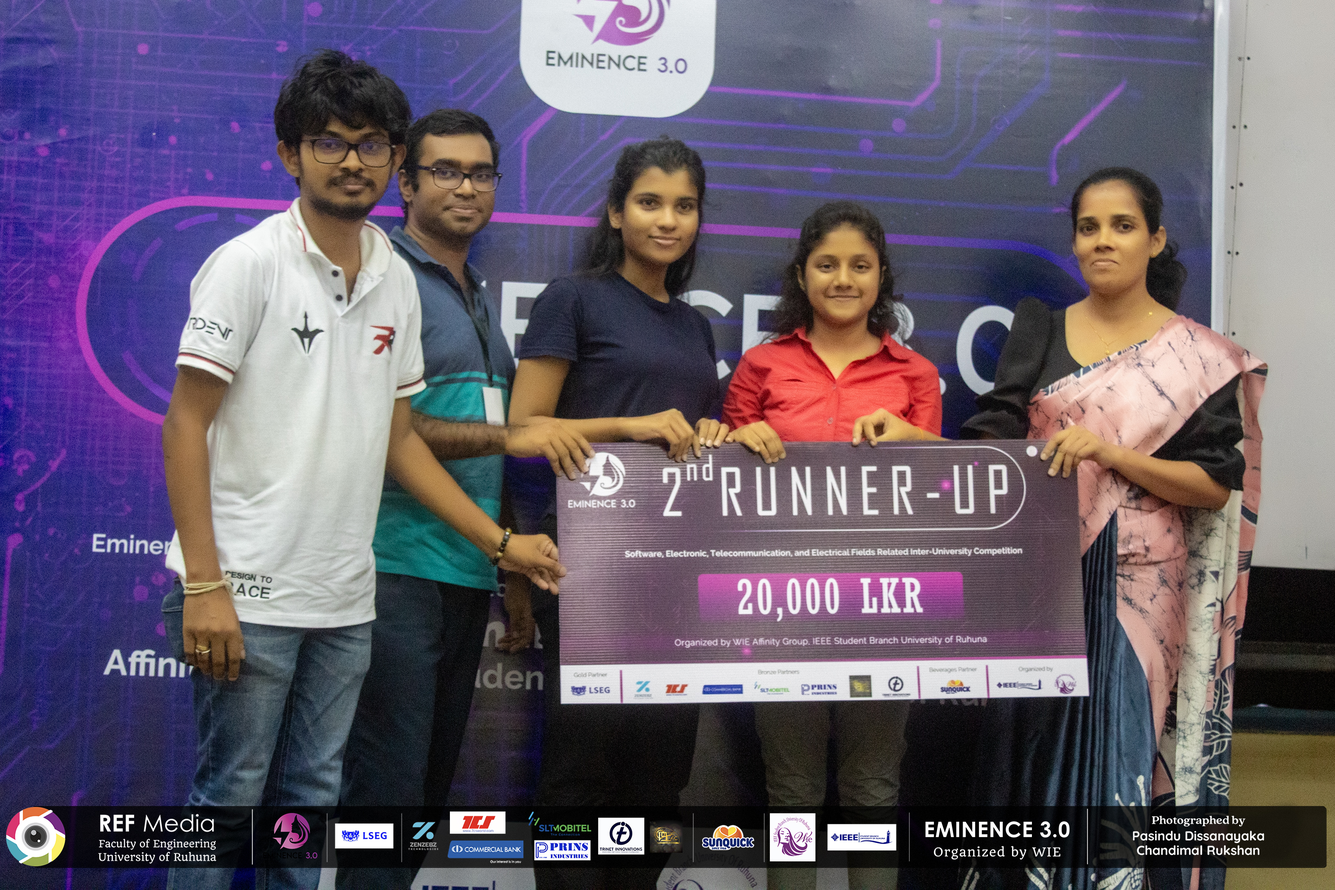
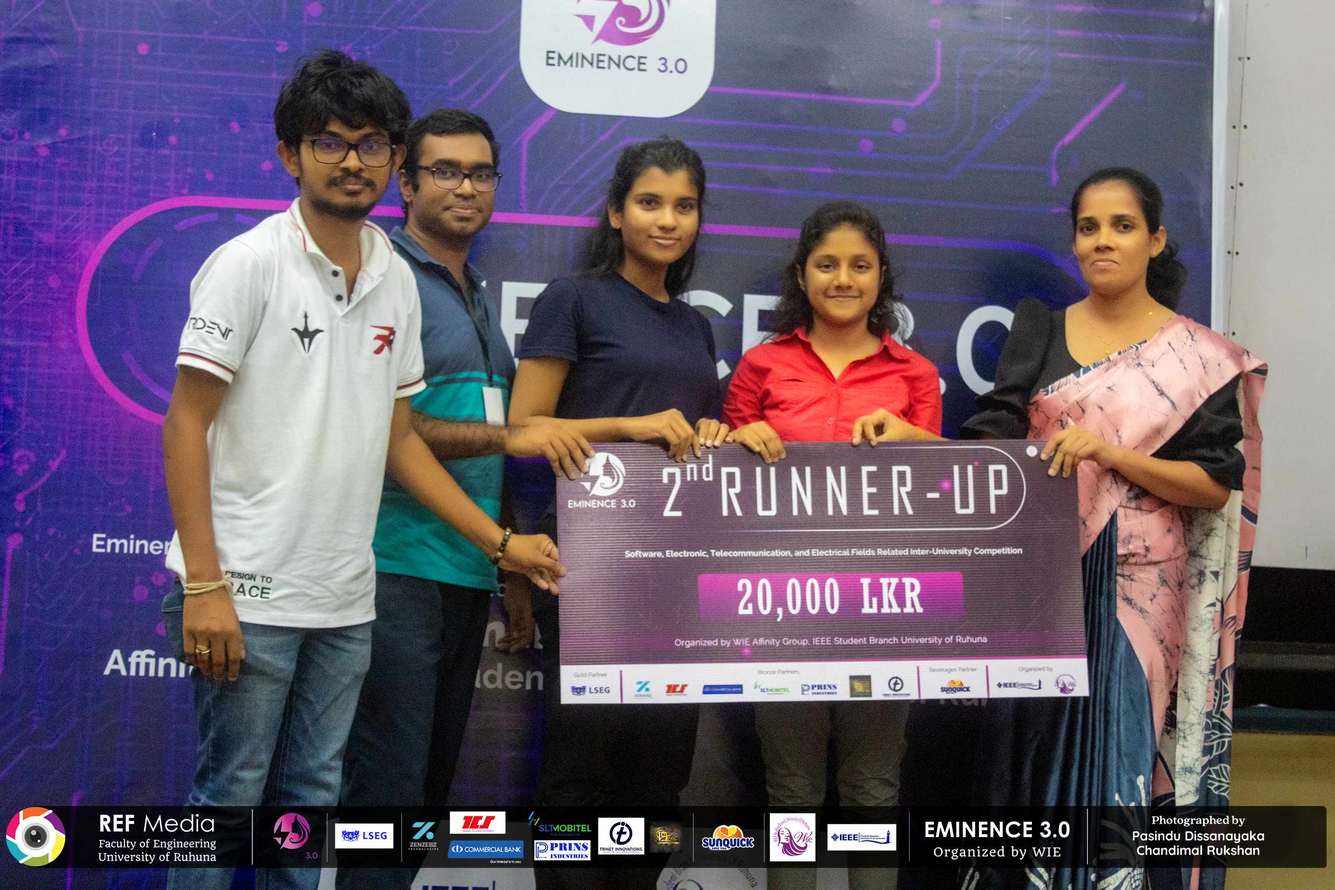
images fix

diff --git a/src/components/Timeline.tsx b/src/components/Timeline.tsx
@@ -2,6 +2,23 @@ import { Card } from "@/components/ui/card";
 import { Badge } from "@/components/ui/badge";
 import { CheckCircle, Award, GraduationCap, Briefcase } from "lucide-react";
 
+// Import timeline images
+import cyberzeeImg from "@/assets/timeline/cyberzee.jpg";
+import axiomImg from "@/assets/timeline/axiom.jpg";
+import insl2Img from "@/assets/timeline/insl2.jpg";
+import ieee17Img from "@/assets/timeline/ieee17.jpeg";
+import eminenceImg from "@/assets/timeline/eminence.jpg";
+import roboImg from "@/assets/timeline/robo.jpeg";
+import uxploreImg from "@/assets/timeline/uxplore.jpg";
+import haxtremeImg from "@/assets/timeline/haxtreme.jpg";
+import ieee16Img from "@/assets/timeline/ieee16.png";
+import genesisImg from "@/assets/timeline/genesis.jpg";
+import insl1Img from "@/assets/timeline/insl1.jpeg";
+import cyberzee1Img from "@/assets/timeline/cyberzee1.jpg";
+import cimaPngImg from "@/assets/timeline/cima.png";
+import aromaticImg from "@/assets/timeline/aromatic.jpg";
+import mehewaraImg from "@/assets/timeline/mehewara.jpg";
+
 const timelineEvents = [
   {
     year: "2024",
@@ -11,7 +28,7 @@ const timelineEvents = [
     description:
       "Leading team CypherX, clinched the championship title at the Cyberzee 24 Interuniversity Cybersecurity Quiz Competition!",
     icon: CheckCircle,
-    image: "src/assets/timeline/cyberzee.jpg",
+    image: cyberzeeImg,
   },
   {
     year: "2024",
@@ -21,7 +38,7 @@ const timelineEvents = [
     description:
       "Conducted my first workshop on competitive programming as part of the Axiom workshop series with Tharindu Jayawardhana.",
     icon: GraduationCap,
-    image: "src/assets/timeline/axiom.jpg",
+    image: axiomImg,
   },
   {
     year: "2023",
@@ -31,7 +48,7 @@ const timelineEvents = [
     description:
       "As the team leader of Team Unimatrix , became the 2nd Runner-up at the INSL Southern provincial competition 2023 which was conducted by IEEE of University of Ruhuna.",
     icon: CheckCircle,
-    image: "src/assets/timeline/insl2.jpg",
+    image: insl2Img,
   },
   {
     year: "2023",
@@ -41,7 +58,7 @@ const timelineEvents = [
     description:
       "As the team leader of Team UniMatrix at the IEEE Xtreme 17.0 2023 competition secured the 2nd position at the University of Ruhuna and ranked 88th in the national standings for Sri Lanka.",
     icon: CheckCircle,
-    image: "src/assets/timeline/ieee17.jpeg",
+    image: ieee17Img,
   },
 
   {
@@ -52,7 +69,7 @@ const timelineEvents = [
     description:
       "As a member of Team UniMatrix, achieved Second runner-up at Eminence 3.0",
     icon: CheckCircle,
-    image: "src/assets/timeline/eminence.jpg",
+    image: eminenceImg,
   },
   {
     year: "2023",
@@ -61,7 +78,7 @@ const timelineEvents = [
     position: "Participant",
     description: "Created Artemis, line following and color recognition robot",
     icon: CheckCircle,
-    image: "src/assets/timeline/robo.jpeg",
+    image: roboImg,
   },
 
   {
@@ -71,7 +88,7 @@ const timelineEvents = [
     position: "Semi-finalist",
     description: "As the team leader of Team UniMatrix , became semi-finalists",
     icon: CheckCircle,
-    image: "src/assets/timeline/uxplore.jpg",
+    image: uxploreImg,
   },
 
   {
@@ -82,7 +99,7 @@ const timelineEvents = [
     description:
       "As a member of Team AROMATIC, achieved Second runner-up of HaXtreme1.0 2023",
     icon: CheckCircle,
-    image: "src/assets/timeline/haxtreme.jpg",
+    image: haxtremeImg,
   },
   {
     year: "2022",
@@ -92,7 +109,7 @@ const timelineEvents = [
     description:
       "As the team member of Team BitBorg at the IEEE Xtreme 16.0 2022 competition secured the 4th position at the University of Ruhuna and ranked 114th in the national standings for Sri Lanka.",
     icon: CheckCircle,
-    image: "src/assets/timeline/ieee16.png",
+    image: ieee16Img,
   },
   {
     year: "2022",
@@ -102,7 +119,7 @@ const timelineEvents = [
     description:
       "As a member of Team AROMATIC, reached finals in Genesiz 2022 competition.",
     icon: CheckCircle,
-    image: "src/assets/timeline/genesis.jpg",
+    image: genesisImg,
   },
   {
     year: "2022",
@@ -112,7 +129,7 @@ const timelineEvents = [
     description:
       "As the team leader of Team Unimatrix , became the Champions at the INSL Southern provincial competition 2022 which was conducted by IEEE of University of Ruhuna.",
     icon: CheckCircle,
-    image: "src/assets/timeline/insl1.jpeg",
+    image: insl1Img,
   },
     {
     year: "2022",
@@ -122,7 +139,7 @@ const timelineEvents = [
     description:
       "As a member of Team Aromatic, achieved Second Runner-up at CyberZee '22 Inter-University Quiz Competition on Cyber Security.",
     icon: CheckCircle,
-    image: "src/assets/timeline/cyberzee1.jpg",
+    image: cyberzee1Img,
   },
     {
     year: "2020",
@@ -132,7 +149,7 @@ const timelineEvents = [
     description:
       "Achieved the highest mark obtainable for a CIMA Cert BA Exam 150/150 for BA3- Fundamentals of Financial Accounting.",
     icon: CheckCircle,
-    image: "src/assets/timeline/cima.png",
+    image: cimaPngImg,
   },
   
     {
@@ -143,7 +160,7 @@ const timelineEvents = [
     description:
       "The achievements of Team Aromatic at several competitions was recognized in the official site of University of Ruhuna.",
     icon: CheckCircle,
-    image: "src/assets/timeline/aromatic.jpg",
+    image: aromaticImg,
   },
       {
     year: "2022",
@@ -153,7 +170,7 @@ const timelineEvents = [
     description:
       "Got the opportunity participate as a volunteer in the Mehewara Maths Seminar series conducted by Student Union of Faculty of Engineering, University of Ruhuna",
     icon: GraduationCap,
-    image: "src/assets/timeline/mehewara.jpg",
+    image: mehewaraImg,
   },
 ];
 

diff --git a/src/components/Projects.tsx b/src/components/Projects.tsx
@@ -3,12 +3,20 @@ import { Button } from "@/components/ui/button";
 import { Badge } from "@/components/ui/badge";
 import { Github, ExternalLink, Star } from "lucide-react";
 
+// Import project images
+import networkSimImg from "@/assets/projects/network-sim.jpg";
+import auctionhubImg from "@/assets/projects/auctionhub.png";
+import ttcicdImg from "@/assets/projects/ttcicd.jpg";
+import lpImg from "@/assets/projects/lp.png";
+import traveltrailsImg from "@/assets/projects/traveltrails.jpeg";
+import hlImg from "@/assets/projects/hl.png";
+
 const projects = [
   {
     title: "Enhancing NS-3 for Distributed Network Simulation",
     description: "Final Year Group Project focused on enhancing NS-3 network simulator with distributed simulation capabilities and automated cloud deployment.",
     longDescription: "Designed and implemented CI/CD pipelines using Azure DevOps for automated builds, testing, and deployments. Automated cloud infrastructure provisioning and configuration using Terraform and Ansible, enabling seamless deployment of NS-3 simulation environments on AWS.",
-    image: "src/assets/projects/network-sim.jpg",
+    image: networkSimImg,
     technologies: ["Azure DevOps", "Terraform", "Ansible", "AWS", "NS-3", "CI/CD"],
     githubUrl: "",
     demoUrl: null,
@@ -20,7 +28,7 @@ const projects = [
     title: "AuctionHub",
     description: "Complete GitOps CI/CD pipeline for a microservices auction platform with Kubernetes orchestration and comprehensive monitoring.",
     longDescription: "Designed and implemented a complete GitOps CI/CD pipeline for a microservices auction platform using GitHub Actions for automated Docker builds and ArgoCD for continuous deployment. Orchestrated full Kubernetes infrastructure using declarative YAML manifests with persistent storage (EBS CSI), monitoring stack (Jaeger, DataDog), and infrastructure services (MySQL, Redis, NATS).",
-    image: "src/assets/projects/auctionhub.png",
+    image: auctionhubImg,
     technologies: ["GitOps", "GitHub Actions", "ArgoCD", "Kubernetes", "Docker", "Jaeger", "DataDog", "MySQL", "Redis"],
     githubUrl: "https://github.com/PramithaMJ/argocd-auctionhub",
     demoUrl: null,
@@ -33,7 +41,7 @@ const projects = [
     title: "TravelTrails Web App CI/CD",
     description: "Comprehensive CI/CD pipeline implementation for automated build, test, and deployment processes of TravelTrails application.",
     longDescription: "Designed and implemented a CI/CD pipeline to automate build, test, and deployment processes of TravelTrails app. Integrated SonarQube for code quality checks, Docker for containerization, and Jenkins (master-slave) for build automation. Utilized Terraform for infrastructure provisioning, Ansible for configuration management, and Docker Compose for deployments. Pushed artifacts to DockerHub and set up email notifications in this project.",
-    image: "src/assets/projects/ttcicd.jpg",
+    image: ttcicdImg,
     technologies: ["Jenkins", "Docker", "SonarQube", "Terraform", "Ansible", "DockerHub", "CI/CD"],
     githubUrl: "https://github.com/ChandulaJ/TravelTrails-MERN-stack-app",
     demoUrl: null,
@@ -45,7 +53,7 @@ const projects = [
     title: "LifePill Software System",
     description: "Comprehensive medicine finding system with mobile app, POS system, and web application for seamless healthcare management.",
     longDescription: "A comprehensive software group project based on a system of finding medicine through a mobile app. Acting as Project Manager and Flutter mobile developer, this project includes a mobile app, POS system, and web application for complete healthcare solution.",
-    image: "src/assets/projects/lp.png",
+    image: lpImg,
     technologies: ["Flutter", "Mobile Development", "POS System", "Web App", "Project Management"],
     githubUrl: "https://github.com/orgs/Life-Pill/repositories",
     demoUrl: null,
@@ -57,7 +65,7 @@ const projects = [
     title: "TravelTrails Social Media Web Application",
     description: "MERN stack social media platform designed specifically for travel enthusiasts to share and discover travel experiences.",
     longDescription: "TravelTrails is a social media web application built with MERN stack for travel enthusiasts. Travellers can share their travel experiences, discover new destinations, and connect with fellow travelers through this comprehensive web application.",
-    image: "src/assets/projects/traveltrails.jpeg",
+    image: traveltrailsImg,
     technologies: ["MongoDB", "Express.js", "React", "Node.js", "MERN Stack"],
     githubUrl: "https://github.com/ChandulaJ/TravelTrails-MERN-stack-app",
     demoUrl: null,
@@ -69,7 +77,7 @@ const projects = [
     title: "Harvest~Link Mobile Application",
     description: "Fresh vegetables and fruits delivery app connecting local small-scale farmers with buyers, built with Flutter.",
     longDescription: "A fresh vegetables and fruits delivery app created with Flutter that connects local small-scale farmers directly with buyers. This platform helps farmers reach customers directly while providing buyers access to fresh, local produce.",
-    image: "src/assets/projects/hl.png",
+    image: hlImg,
     technologies: ["Flutter", "Mobile Development", "E-commerce", "Agriculture Tech"],
     githubUrl: "https://github.com/ChandulaJ/HarvestLink-Flutter-MobileApp",
     demoUrl: null,

diff --git a/src/components/Endorsements.tsx b/src/components/Endorsements.tsx
@@ -1,13 +1,19 @@
 import { Card } from "@/components/ui/card";
 import { Quote, Star } from "lucide-react";
 
+// Import endorsement profile images
+import kushanImg from "@/assets/endosements/kushan.jpg";
+import hiranImg from "@/assets/endosements/hiran.jpg";
+import tusharaImg from "@/assets/endosements/tushara.jpg";
+import praneethImg from "@/assets/endosements/praneeth.jpg";
+
 const endorsements = [
 
   {
     name: "Dr. Kushan Sudheera",
     role: "Senior Lecturer",
     company: "University of Ruhuna - Electrical & Information Engineering",
-    image: "src/assets/endosements/kushan.jpg",
+    image: kushanImg,
     quote: "Chandula is an exemplary leader and skilled developer who played a crucial role in the success of the LifePill project. As Project Manager, he demonstrated exceptional leadership by ensuring seamless collaboration among team members. His expertise in managing AWS infrastructure and deployment ensured the system's reliability and scalability. His ability to balance technical expertise with leadership is commendable, reflecting innovation, dedication, and a drive to make meaningful contributions.",
     rating: 5,
     credentials: "PhD, Senior Academic",
@@ -17,7 +23,7 @@ const endorsements = [
     name: "Hiran Basnayaka",
     role: "Associate Cloud Engineer",
     company: "Sysco LABS",
-    image: "src/assets/endosements/hiran.jpg",
+    image: hiranImg,
     quote: "I had the pleasure of working with Chandula during his internship at LSEG, and I was truly impressed by his dedication and work ethic. He is a quick learner who consistently put in extra effort to ensure tasks were completed efficiently and on time. His strong collaboration with developers and QA engineers in automating integrations and regression testing significantly improved workflow efficiency. His solid foundation in AWS, Jenkins, Terraform, and Ansible, combined with his passion for learning, made him a valuable asset to our team.",
     rating: 5,
     credentials: "AWS SAA & Terraform Associate",
@@ -27,7 +33,7 @@ const endorsements = [
     name: "Prof. Tushara Chaminda",
     role: "Professor",
     company: "Faculty of Engineering, University of Ruhuna",
-    image: "src/assets/endosements/tushara.jpg",
+    image: tusharaImg,
     quote: "Mr. Chandula Jayathilake is one of my exceptional students who consistently demonstrates outstanding leadership qualities, effectively motivating and guiding teams to successful outcomes. His proficiency in effective communication, problem-solving, and collaboration, combined with academic excellence, makes him a motivated and hard-working engineering student. His positive attitude and delightful personality make him a valuable asset to any institute.",
     rating: 5,
     credentials: "Professor of Engineering",
@@ -37,7 +43,7 @@ const endorsements = [
     name: "Praneeth Sathsara Wijesinghe",
     role: "Lecturer",
     company: "Faculty of Engineering, University of Ruhuna",
-    image: "src/assets/endosements/praneeth.jpg",
+    image: praneethImg,
     quote: "Chandula is a multi-talented, dedicated, and enthusiastic engineering student who is always willing to accept challenges and finish them successfully in a timely manner. His engagement with extracurricular activities has improved his leadership and communication skills. He immensely supported our department in organizing the 'INSPIRE' guest lecture series. I can recommend Chandula as an all-rounder engineering student who possesses most of the employability skills expected by leading employers.",
     rating: 5,
     credentials: "Academic Lecturer",

diff --git a/src/components/Certifications.tsx b/src/components/Certifications.tsx
@@ -2,6 +2,16 @@ import { Card } from "@/components/ui/card";
 import { Badge } from "@/components/ui/badge";
 import { Award, Calendar } from "lucide-react";
 
+// Import certification images
+import solutionsArchitectImg from "@/assets/certs/solutions-architect.png";
+import sysopsAdminImg from "@/assets/certs/sysops-admin.png";
+import oracleImg from "@/assets/certs/oracle.png";
+import hackerrankImg from "@/assets/certs/hackerrank.jpeg";
+import courseraImg from "@/assets/certs/coursera.png";
+import eheImg from "@/assets/certs/ehe.jpg";
+import cimaImg from "@/assets/certs/cima.jpeg";
+import microsoftImg from "@/assets/certs/microsoft.jpg";
+
 const certifications = [
   {
     id: 1,
@@ -9,7 +19,7 @@ const certifications = [
     provider: "Amazon Web Services (AWS)",
     issueDate: "Apr 2025",
     expiryDate: "Apr 2028",
-    image: "src/assets/certs/solutions-architect.png",
+    image: solutionsArchitectImg,
     skills: ["Amazon Web Services (AWS)"],
   },
   {
@@ -18,7 +28,7 @@ const certifications = [
     provider: "Amazon Web Services (AWS)",
     issueDate: "Jan 2025",
     expiryDate: "Jan 2028",
-    image: "src/assets/certs/sysops-admin.png",
+    image: sysopsAdminImg,
     skills: ["Amazon Web Services (AWS)", "DevOps"],
   },
     {
@@ -27,7 +37,7 @@ const certifications = [
     provider: "Oracle",
     issueDate: "Mar 2021",
     expiryDate: null,
-    image: "src/assets/certs/oracle.png",
+    image: oracleImg,
     skills: ["Java"],
   },
   {
@@ -36,7 +46,7 @@ const certifications = [
     provider: "HackerRank",
     issueDate: "Jul 2023",
     expiryDate: null,
-    image: "src/assets/certs/hackerrank.jpeg",
+    image: hackerrankImg,
     skills: ["Java"],
   },
   {
@@ -45,7 +55,7 @@ const certifications = [
     provider: "Coursera",
     issueDate: "Jun 2023",
     expiryDate: null,
-    image: "src/assets/certs/coursera.png",
+    image: courseraImg,
     skills: ["Machine Learning"],
   },
   {
@@ -54,7 +64,7 @@ const certifications = [
     provider: "Coursera",
     issueDate: "Jun 2023",
     expiryDate: null,
-    image: "src/assets/certs/ehe.jpg",
+    image: eheImg,
     skills: ["Cybersecurity"],
   },
 
@@ -64,7 +74,7 @@ const certifications = [
     provider: "CIMA",
     issueDate: "Nov 2020",
     expiryDate: null,
-    image: "src/assets/certs/cima.jpeg",
+    image: cimaImg,
     skills: ["Management Accounting"],
   },
   {
@@ -73,7 +83,7 @@ const certifications = [
     provider: "Microsoft",
     issueDate: "Jan 2023",
     expiryDate: null,
-    image: "src/assets/certs/microsoft.jpg",
+    image: microsoftImg,
     skills: ["Machine Learning"],
   },
 ];
